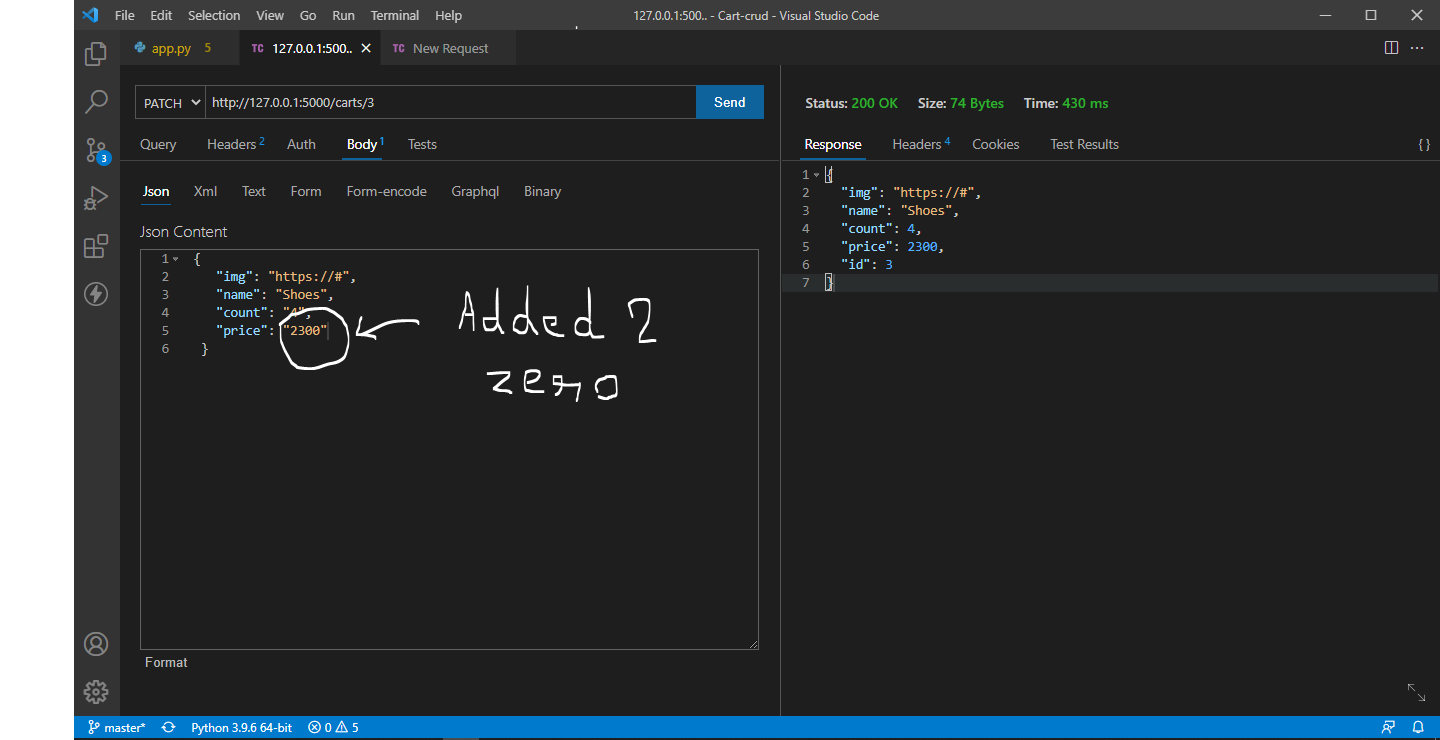
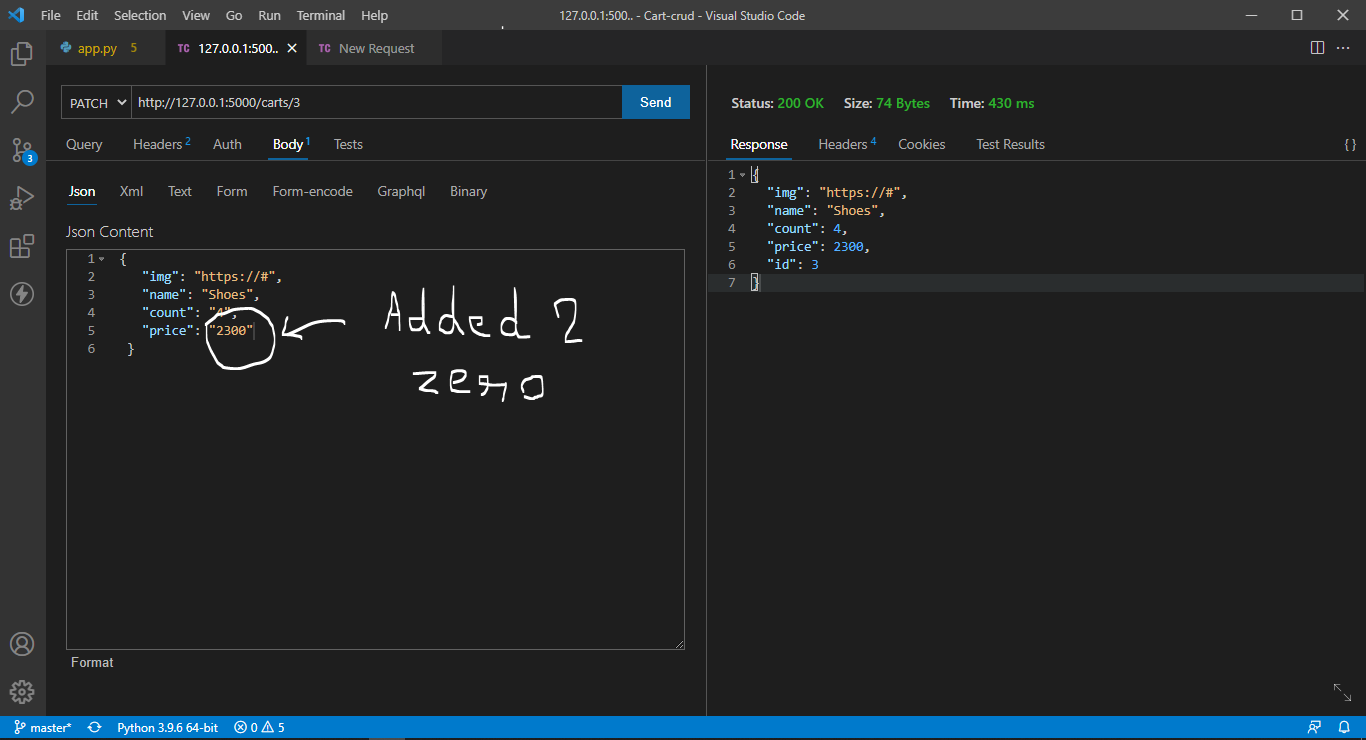
Updated Readme file

diff --git a/README.md b/README.md
@@ -19,6 +19,8 @@ On sending *GET* request to the endpoint "cart", the API will fetch all data fro
 
 On sending *PATCH* request to the endpoint "cart/<'id'>" where *id* is the id of the product, the API will update the data of product with that perticular id and will dump it as a response. The below image demonstartes the same: <br>
 
+We can rectify this by 2nd image where the data with *"id:3"* has *"price:23"*, but after correction, its price has changed to *"price:2300"*
+
 !["img"](./Demo/patch.PNG) <br><br>
 
 ## Delete
